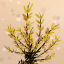
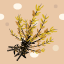
New burned tiles and edited water, desert shrub, and grass tiles

diff --git a/src/scenes/mainScene.js b/src/scenes/mainScene.js
@@ -39,9 +39,20 @@ export class MainScene extends Phaser.Scene {
 
         // Preload terrain assets
         this.load.image('water', 'assets/64x64-Map-Tiles/water.png');
-        this.load.image('grass', 'assets/64x64-Map-Tiles/flowers.png');
+        this.load.image('grass', 'assets/64x64-Map-Tiles/grass.png');
         this.load.image('shrub', 'assets/64x64-Map-Tiles/Shrubs/shrubs-on-sand.png');
         this.load.image('tree', 'assets/64x64-Map-Tiles/Trees/trees-on-light-dirt.png');
+
+        // Preload terrain animation assets
+        this.load.spritesheet('water-sheet', 'assets/64x64-Map-Tiles/splash-sheet.png', {
+            frameWidth: 64, // Width of each frame
+            frameHeight: 64 // Height of each frame
+        });
+
+        // Preload burned terrain assets
+        this.load.image('burned-grass', 'assets/64x64-Map-Tiles/Burned%20Tiles/burned-grass.png');
+        this.load.image('burned-shrub', 'assets/64x64-Map-Tiles/Burned%20Tiles/burned-shrubs-on-sand.png');
+        this.load.image('burned-tree', 'assets/64x64-Map-Tiles/Burned%20Tiles/burned-trees-on-light-dirt.png');
     }
 
     initializeMap() {
@@ -307,6 +318,25 @@ export class MainScene extends Phaser.Scene {
                     console.log(`Clicked on ${tile.terrain} at (${x}, ${y})`);
                 });
 
+                // TO-DO: Water Animation Overlay
+                /*if (tile.terrain == "water") {
+                    console.log(`Map height: ${map.height}`);
+                    console.log(`Tile Sprite X: ${tile.sprite.y}`);
+                    console.log("Gotcha!")
+
+                    this.anims.create({
+                        key: "water-anim",
+                        frames: this.anims.generateFrameNumbers('water-sheet'),
+                        frameRate: 10,
+                        repeat: -1
+                    });
+                
+                        let watertile = this.add.sprite(tile.sprite.x, tile.sprite.y, 'water-anim');
+                        watertile.play('water-anim');
+                    
+                }
+                */
+
                 // Add sprite to the map group
                 this.mapGroup.add(sprite);
             });
@@ -316,7 +346,7 @@ export class MainScene extends Phaser.Scene {
 
     restartGame() {
         console.log("Restarting game...");
-
+        
         // Generate a new unique seed
         this.currentSeed = Date.now();
         console.log(`Current Seed: ${this.currentSeed}`);

diff --git a/src/components/MapGenerator.js b/src/components/MapGenerator.js
@@ -43,7 +43,7 @@ export default class Map {
      *      and refines terrain using Cellular Automata.
      * @returns {Array<Array<TerrainTile>>} A 2D grid of TerrainTile objects.
      */
-    generateMap() {
+    generateMap(scene) {
         // Step 1: Initialize the grid
         const grid = Array.from({ length: this.height }, () => Array(this.width).fill(null));
         const partitions = this.bsp.getPartitions(); // Retrieve BSP partitions

diff --git a/src/components/ui.js b/src/components/ui.js
@@ -158,5 +158,12 @@ export function preloadHUD(scene) {
         frameWidth: 64, // Width of each frame
         frameHeight: 64 // Height of each frame
     });
+
+    scene.load.spritesheet('waterr', 'assets//64x64-Map-Tiles/water.png', {
+        frameWidth: 64, // Width of each frame
+        frameHeight: 64 // Height of each frame
+    });
+
+    
 }
 
